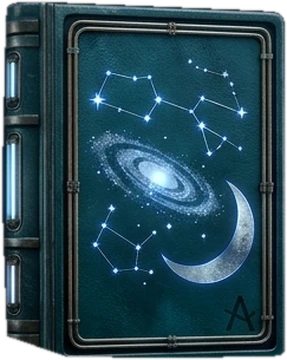
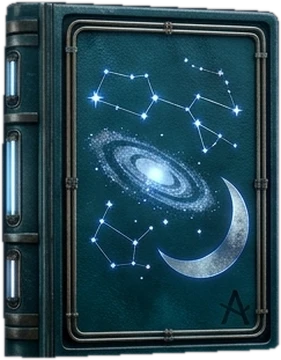
손님 책 표지 1번 왼쪽 아래 책등이 사선으로 잘리던 것 다시 자름 [library-20261118y]

diff --git a/index.html b/index.html
@@ -4,7 +4,7 @@
 <meta charset="UTF-8">
 <meta name="viewport" content="width=device-width, initial-scale=1, maximum-scale=1, user-scalable=no, viewport-fit=cover">
 <title>개념의 서고</title>
-<meta name="build" content="library-20261118x">
+<meta name="build" content="library-20261118y">
 <link rel="preload" href="assets/fonts/space-grotesk-latin-wght-normal.woff2" as="font" type="font/woff2" crossorigin>
 <link rel="stylesheet" href="assets/fonts/fonts.css">
 <meta name="theme-color" content="#07080d">
